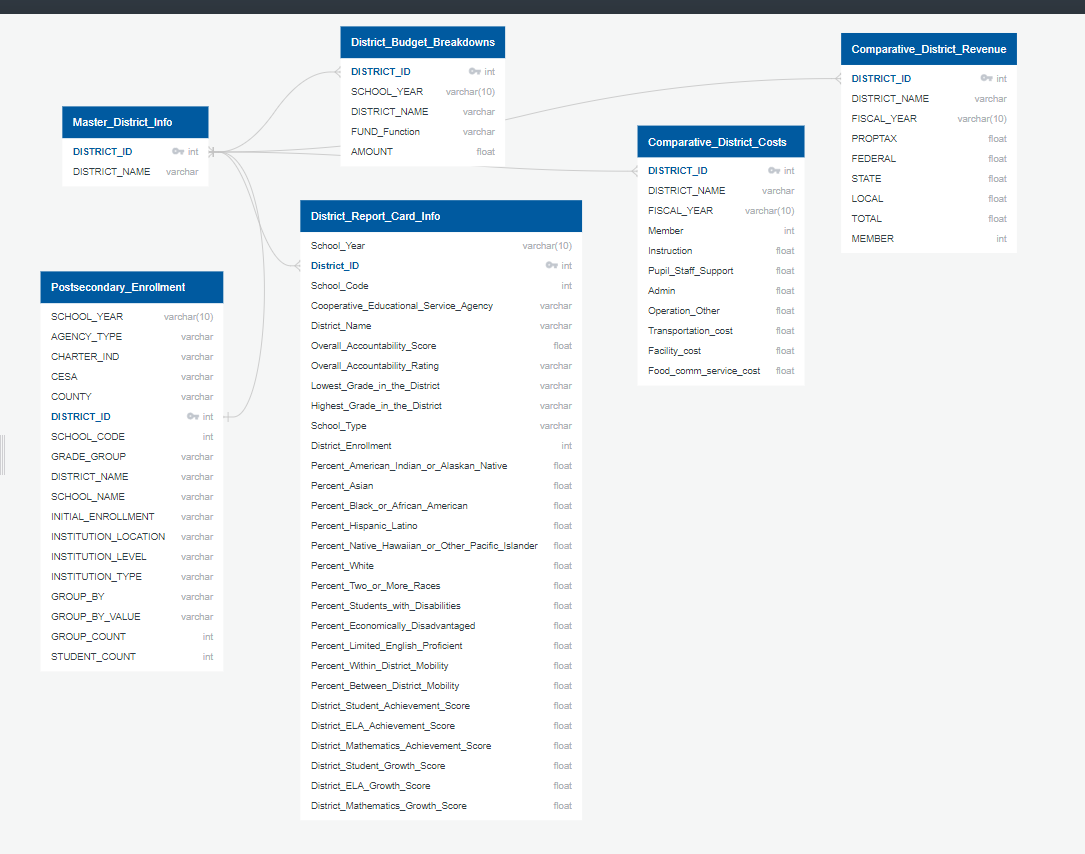
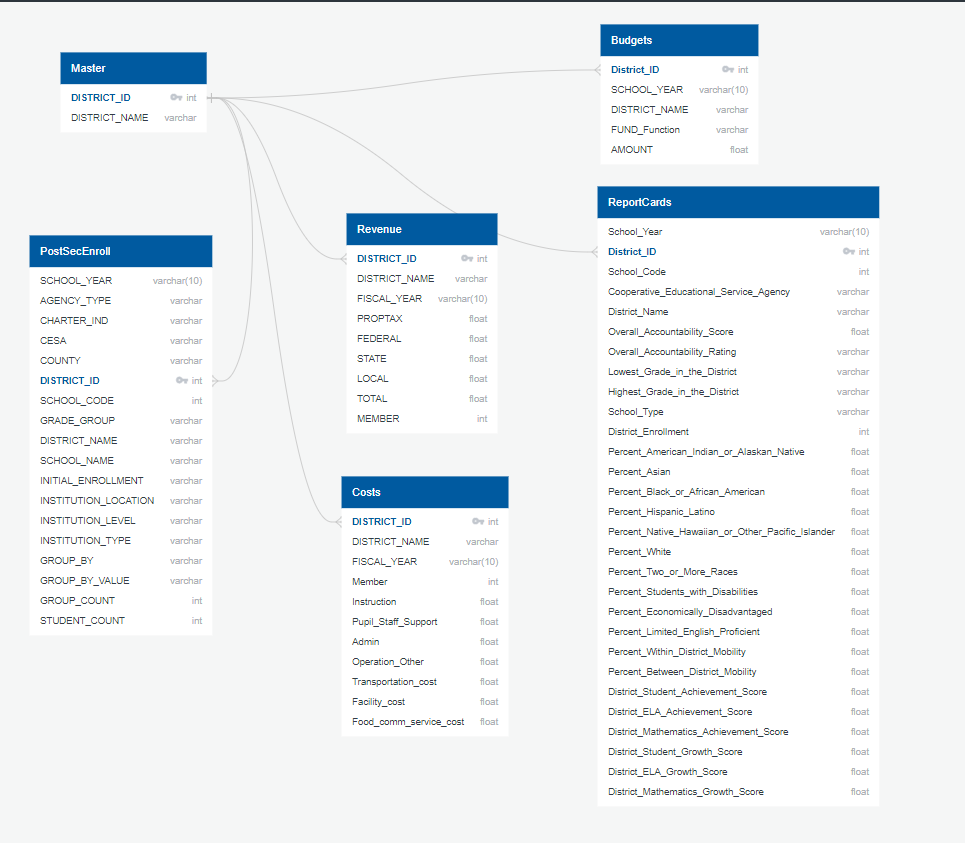
added connection engine to sql and updated ERD to reflect final connection

diff --git a/config.py b/config.py
@@ -1,0 +1,1 @@
+db_password = "Buffy1980"
